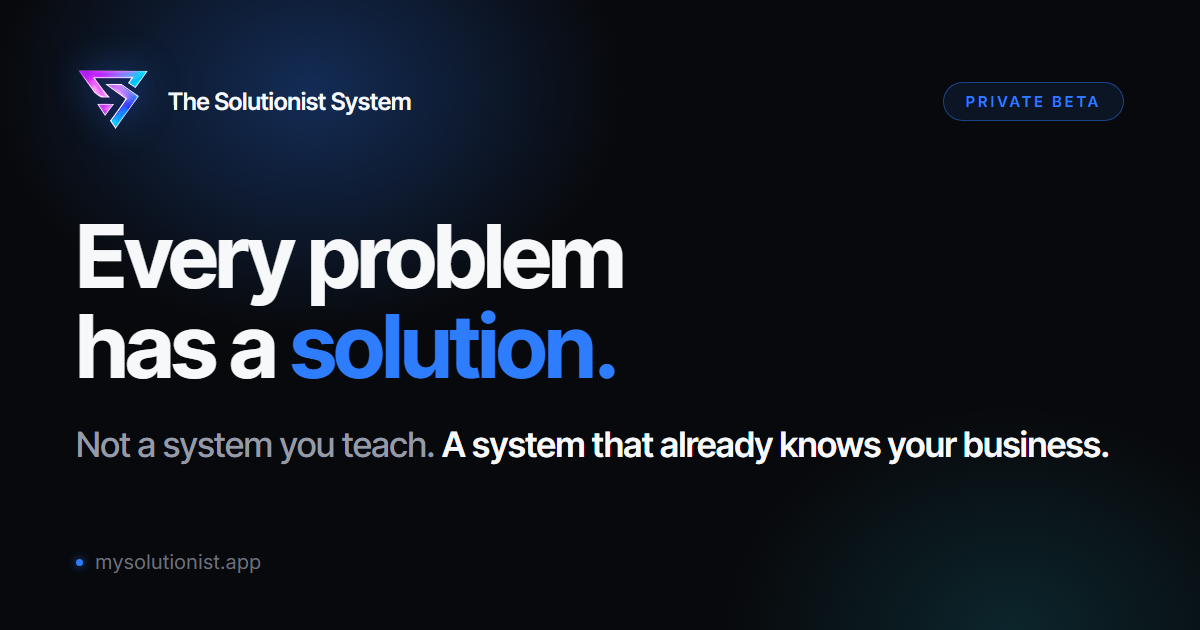
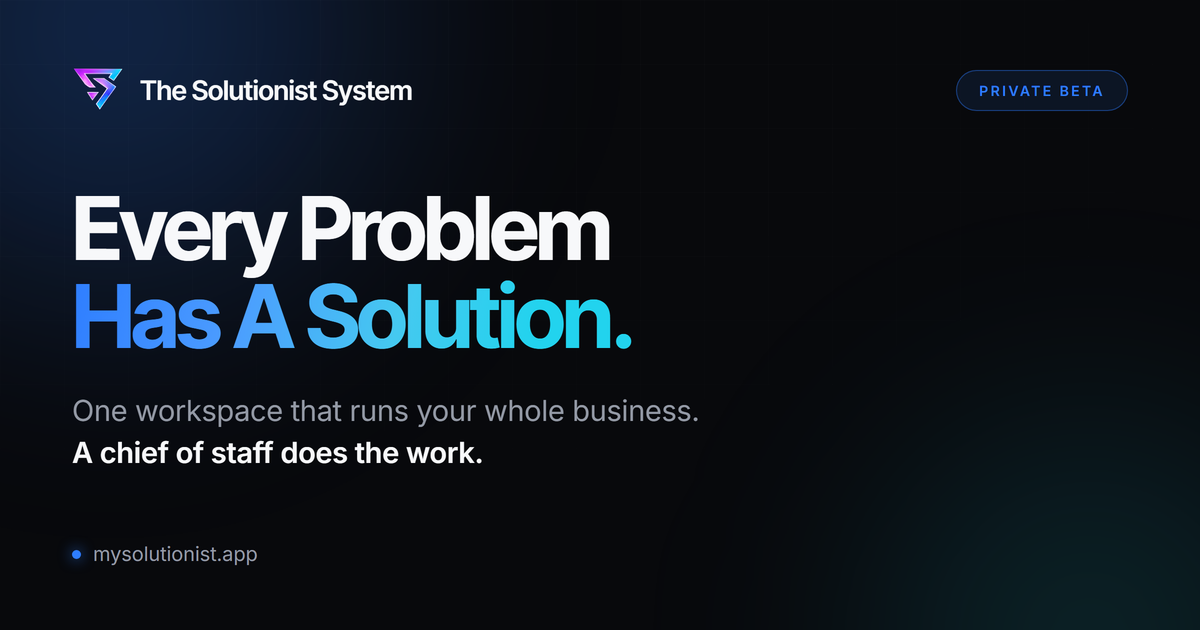
The share card says what the system is, and can be rebuilt next time
The card every share of the site renders was the last surface still
carrying the old framing: a maxim, then a differentiator, and nowhere on
it a sentence that says what the product actually is. It was also the
worst place for that, because it is what a stranger sees before they have
seen anything else.

  was:  Every problem has a solution.
        Not a system you teach. A system that already knows your business.

  now:  Every Problem Has A Solution.
        One workspace that runs your whole business.
        A chief of staff does the work.

Two other things were wrong with it. The statement was in sentence case,
which is the shape the hero test exists to stop it drifting back to, so
the card had drifted where nothing was watching. And "Has A Solution."
now carries the same 103deg blue-into-cyan the hero carries, so the card
and the fold are finally the same picture.

The bigger problem was that there was no source. The July card was
screenshotted from a throwaway page nobody kept, which is why it outlived
two copy changes: re-rendering it meant rebuilding it from nothing. So
this commit adds the card as a real file, and a script that renders it:

    python tools/render_og_card.py

It renders at 2x and downsamples, because headless text at 1x is visibly
softer than the same card on a phone, and it asserts the output is
exactly 1200x630 to match og:image:width.

The first webfont guard I wrote for that script was decorative and this
[…]

diff --git a/static/brand/solutionist-og-card.html b/static/brand/solutionist-og-card.html
@@ -1,0 +1,112 @@
+<!doctype html>
+<!--
+  Source for static/brand/solutionist-og.png, the 1200x630 card every
+  share of mysolutionist.app renders.
+
+  This file exists because the previous card did not have one. It was
+  screenshotted from a throwaway page in July, the page was never kept,
+  and by the time the hero copy changed there was nothing to re-render
+  from. Regenerate with:
+
+      python tools/render_og_card.py
+
+  and bump the ?v= on the og:image / twitter:image tags in
+  marketing_pages.py and legal_content.py, or caches will keep serving
+  the old picture.
+
+  Rules this card follows, same as the page it advertises:
+    * the statement is TITLE CASE (Kevin's ruling; sentence case is the
+      shape it drifts back to, and the July card had already drifted),
+    * "Has A Solution." carries the one licensed gradient on the site,
+      the same 103deg blue-into-cyan the hero uses,
+    * no em dashes anywhere,
+    * the subhead says what the system IS before it says why it is
+      better, which is the whole point of the anchor line on the page.
+-->
+<meta charset="utf-8">
+<title>Solutionist OG card</title>
+<link rel="preconnect" href="https://fonts.googleapis.com">
+<link rel="preconnect" href="https://fonts.gstatic.com" crossorigin>
+<link href="https://fonts.googleapis.com/css2?family=Inter+Tight:wght@500;600;700&family=Inter:wght@400;500;600&display=swap" rel="stylesheet">
+<style>
+  :root{
+    --bg:#08090C; --accent:#2E7DFF; --info:#22D3EE;
+    --text-primary:#F7F8FA; --text-secondary:#C9CDD6;
+    --text-muted:#949AA6; --text-dim:#6B707B;
+    --border:rgba(255,255,255,0.09);
+  }
+  *{margin:0;padding:0;box-sizing:border-box;}
+  html,body{width:1200px;height:630px;}
+  body{background:var(--bg);font-family:'Inter',system-ui,sans-serif;
+    -webkit-font-smoothing:antialiased;overflow:hidden;}
+
+  .card{position:relative;width:1200px;height:630px;overflow:hidden;
+    padding:64px 72px;display:flex;flex-direction:column;}
+
+  /* the same light the fold sits in: one blue bloom off the left
+     shoulder, one cyan off the bottom right, both far enough out that
+     the type never sits in the bright part of either */
+  .glow{position:absolute;border-radius:50%;filter:blur(90px);pointer-events:none;}
+  .g1{width:820px;height:820px;left:-300px;top:-380px;
+      background:radial-gradient(circle, rgba(46,125,255,.30), transparent 68%);}
+  .g2{width:700px;height:700px;right:-240px;bottom:-360px;
+      background:radial-gradient(circle, rgba(34,211,238,.16), transparent 68%);}
+  .grid{position:absolute;inset:0;pointer-events:none;opacity:.5;
+    background:
+      linear-gradient(rgba(255,255,255,.022) 1px, transparent 1px) 0 0/64px 64px,
+      linear-gradient(90deg, rgba(255,255,255,.022) 1px, transparent 1px) 0 0/64px 64px;
+    mask-image:radial-gradient(120% 90% at 30% 20%, #000 20%, transparent 78%);
+    -webkit-mask-image:radial-gradient(120% 90% at 30% 20%, #000 20%, transparent 78%);}
+
+  .row{position:relative;z-index:2;display:flex;align-items:center;
+    justify-content:space-between;}
+  .brand{display:flex;align-items:center;gap:16px;}
+  .brand img{width:52px;height:52px;object-fit:contain;display:block;}
+  .brand b{font-family:'Inter Tight',sans-serif;font-size:27px;font-weight:600;
+    color:var(--text-primary);letter-spacing:-.012em;}
+  .beta{font-size:14px;font-weight:600;letter-spacing:.17em;text-transform:uppercase;
+    color:var(--accent);border:1px solid rgba(46,125,255,.42);
+    background:rgba(46,125,255,.10);border-radius:999px;padding:11px 22px;}
+
+  .mid{position:relative;z-index:2;margin-top:auto;margin-bottom:auto;}
+  h1{font-family:'Inter Tight',sans-serif;font-size:88px;font-weight:700;
+    line-height:1.0;letter-spacing:-.042em;color:var(--text-primary);}
+  /* the single licensed gradient on the whole property */
+  h1 .grad{background:linear-gradient(103deg,
+      var(--accent) 0%, #4C9DFF 30%, #45C9F0 58%, var(--info) 82%);
+    -webkit-background-clip:text;background-clip:text;
+    -webkit-text-fill-color:transparent;color:transparent;}
+
+  .sub{margin-top:30px;font-size:29px;line-height:1.45;letter-spacing:-.012em;
+    color:var(--text-muted);max-width:1000px;}
+  .sub b{color:var(--text-primary);font-weight:600;}
+
+  .foot{position:relative;z-index:2;display:flex;align-items:center;gap:12px;
+    font-size:20px;color:var(--text-muted);letter-spacing:-.005em;}
+  .dot{width:9px;height:9px;border-radius:50%;background:var(--accent);
+    box-shadow:0 0 14px rgba(46,125,255,.85);}
+</style>
+
+<div class="card">
+  <div class="glow g1"></div>
+  <div class="glow g2"></div>
+  <div class="grid"></div>
+
+  <div class="row">
+    <div class="brand">
+      <img src="solutionist-mark.png" alt="">
+      <b>The Solutionist System</b>
+    </div>
+    <span class="beta">Private Beta</span>
+  </div>
+
+  <div class="mid">
+    <h1>Every Problem<br><span class="grad">Has A Solution.</span></h1>
+    <!-- one sentence per line, on purpose: left to wrap it strands the
+         word "work." alone on the second line -->
+    <p class="sub">One workspace that runs your whole business.<br>
+      <b>A chief of staff does the work.</b></p>
+  </div>
+
+  <div class="foot"><span class="dot"></span>mysolutionist.app</div>
+</div>

diff --git a/tools/render_og_card.py b/tools/render_og_card.py
@@ -1,0 +1,99 @@
+"""Render static/brand/solutionist-og.png from solutionist-og-card.html.
+
+    python tools/render_og_card.py
+
+The July card was screenshotted from a page nobody kept, so when the hero
+copy changed there was nothing to re-render from. This script and the
+card next to the PNG are that missing piece.
+
+Two things it refuses to do quietly:
+
+  * ship a card in the wrong typeface. Inter Tight comes from Google
+    Fonts at render time, and a headless browser with no network falls
+    back to system-ui and screenshots something that looks almost right.
+    The run fails instead.
+  * ship a card at the wrong size. og:image:width says 1200x630, so the
+    output is asserted to be exactly that.
+
+It renders at 2x and downsamples, because text at 1x in a headless
+screenshot is noticeably softer than the same card viewed on a phone.
+
+After running, bump the ?v= on the og:image / twitter:image tags in
+marketing_pages.py and legal_content.py or caches keep the old picture.
+"""
+from __future__ import annotations
+
+import io
+import pathlib
+import sys
+
+BRAND = pathlib.Path(__file__).resolve().parent.parent / "static" / "brand"
+CARD = BRAND / "solutionist-og-card.html"
+OUT = BRAND / "solutionist-og.png"
+W, H = 1200, 630
+SCALE = 2
+
+
+def main() -> int:
+    from playwright.sync_api import sync_playwright
+    from PIL import Image
+
+    if not CARD.exists():
+        print(f"card source missing: {CARD}")
+        return 1
+
+    with sync_playwright() as p:
+        browser = p.chromium.launch()
+        page = browser.new_page(
+            viewport={"width": W, "height": H}, device_scale_factor=SCALE
+        )
+        page.goto(CARD.as_uri())
+        page.wait_for_load_state("networkidle")
+        page.evaluate("document.fonts.ready")
+
+        # The whole point of the card is the wordmark and the statement.
+        # If the webfont did not arrive, this is system-ui wearing the
+        # right colours, and it is not obvious in a thumbnail.
+        #
+        # NOT document.fonts.check(). That returns true for a family the
+        # page has never heard of, because it answers "can this text be
+        # rendered", and it always can: the stack falls through to a
+        # system face. Sabotaging the family name to "Nope Face" still
+        # returned true, so the first version of this guard would have
+        # waved through the exact failure it was written to catch.
+        # FontFace status is the thing that actually knows.
+        faces = page.evaluate(
+            "[...document.fonts].map(f => f.family + '|' + f.status)"
+        )
+        missing = [
+            fam for fam in ("Inter Tight", "Inter")
+            if not any(f.split("|")[0].strip("'\"") == fam
+                       and f.endswith("|loaded")
+                       for f in faces)
+        ]
+        if missing:
+            browser.close()
+            print(f"webfont(s) never loaded: {missing}")
+            print(f"font faces present: {faces or '(none)'}")
+            print("refusing to render a card in the wrong typeface")
+            return 1
+
+        shot = page.screenshot(clip={"x": 0, "y": 0, "width": W, "height": H})
+        browser.close()
+
+    img = Image.open(io.BytesIO(shot)).convert("RGB")
+    if img.size != (W * SCALE, H * SCALE):
+        img = img.resize((W * SCALE, H * SCALE), Image.LANCZOS)
+    img = img.resize((W, H), Image.LANCZOS)
+    assert img.size == (W, H), img.size
+    img.save(OUT, "PNG", optimize=True)
+
+    print(f"wrote {OUT}  {img.size[0]}x{img.size[1]}  "
+          f"{OUT.stat().st_size // 1024} KB")
+    print("now bump ?v= on og:image / twitter:image in marketing_pages.py "
+          "and legal_content.py")
+    return 0
+
+
+if __name__ == "__main__":
+    sys.exit(main())

diff --git a/marketing_pages.py b/marketing_pages.py
@@ -427,13 +427,13 @@ SHELL_TEMPLATE = """<!DOCTYPE html>
 <meta property="og:url" content="https://mysolutionist.app{path}">
 <meta property="og:type" content="website">
 <meta property="og:site_name" content="The Solutionist System">
-<meta property="og:image" content="https://mysolutionist.app/assets/og.png?v=2">
+<meta property="og:image" content="https://mysolutionist.app/assets/og.png?v=3">
 <meta property="og:image:width" content="1200">
 <meta property="og:image:height" content="630">
 <meta name="twitter:card" content="summary_large_image">
 <meta name="twitter:title" content="{og_title}">
 <meta name="twitter:description" content="{description}">
-<meta name="twitter:image" content="https://mysolutionist.app/assets/og.png?v=2">
+<meta name="twitter:image" content="https://mysolutionist.app/assets/og.png?v=3">
 <link rel="icon" type="image/png" href="/favicon.png">
 <link rel="apple-touch-icon" href="/favicon.png">
 <link rel="preconnect" href="https://fonts.googleapis.com">

diff --git a/legal_content.py b/legal_content.py
@@ -52,7 +52,7 @@ PAGE_SHELL_HTML = """<!DOCTYPE html>
 <meta name="description" content="{description}">
 <meta property="og:title" content="{title} — The Solutionist System">
 <meta property="og:description" content="{description}">
-<meta property="og:image" content="https://mysolutionist.app/assets/og.png?v=2">
+<meta property="og:image" content="https://mysolutionist.app/assets/og.png?v=3">
 <link rel="icon" type="image/png" href="/favicon.png">
 <link rel="apple-touch-icon" href="/favicon.png">
 <link href="https://fonts.googleapis.com/css2?family=Inter+Tight:wght@500;600;700&family=Inter:wght@400;500;600;700&display=swap" rel="stylesheet">
